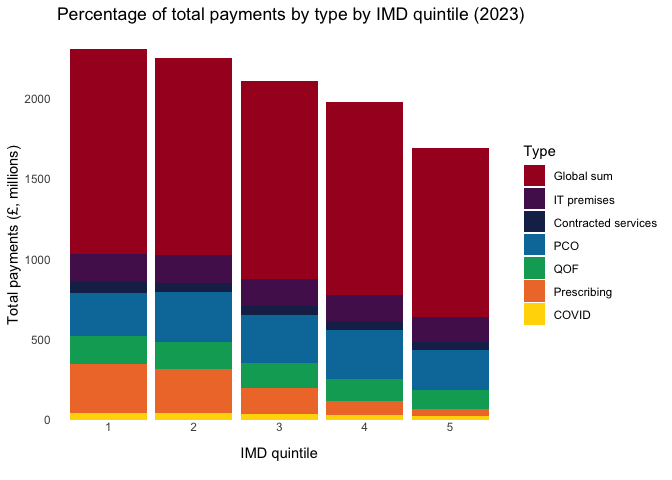
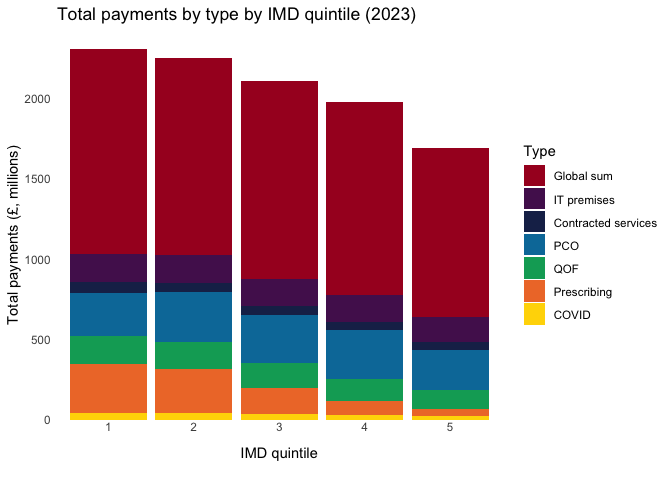
update chart title

Changed region(s): [[0.0625, 0.0, 0.7812, 0.0625]]

diff --git a/analysis/dispensing/analysis.md b/analysis/dispensing/analysis.md
@@ -627,9 +627,22 @@ agg[, c(1, 10:16)]
     ## #   contractedServices_proportion <dbl>, COVID_proportion <dbl>
 
 ``` r
+# calculate the difference between the total payments for the most and least deprived quintiles for each payment type
+diffs_abs <- sapply(agg[, c(2:9)], function(x) x[1] - x[5]) %>% sort()
+diffs_abs
+```
+
+    ##         total_ITPremises              total_COVID                total_PCO 
+    ##                 12976135                 16655019                 17216740 
+    ## total_contractedServices                total_QOF          total_globalSum 
+    ##                 20760076                 55079869                228397617 
+    ##        total_prescribing           total_payments 
+    ##                264983815                635551091
+
+``` r
 # calculate the difference between the proportion of payments for the most and least deprived quintiles for each payment type
-diffs <- sapply(agg[, c(10:16)], function(x) x[1] - x[5]) %>% sort()
-diffs
+diffs_prop <- sapply(agg[, c(10:16)], function(x) x[1] - x[5]) %>% sort()
+diffs_prop
 ```
 
     ##          globalSum_proportion                PCO_proportion 
@@ -687,7 +700,7 @@ colors <- c("#A80026", "#531A5C", "#1B2C57", "#007AA8", "#00A865", "#EF7A34", "#
 ggplot(agg_melted[!is.na(agg_melted$IMD_quintile), ], aes(x = IMD_quintile, y = value, fill = variable)) +
   geom_bar(stat = "identity") +
   labs(
-    title = paste0("Percentage of total payments by type by IMD quintile (2023)"),
+    title = paste0("Total payments by type by IMD quintile (2023)"),
     x = "Column",
     y = "Total payments (£, millions)"
   ) +
